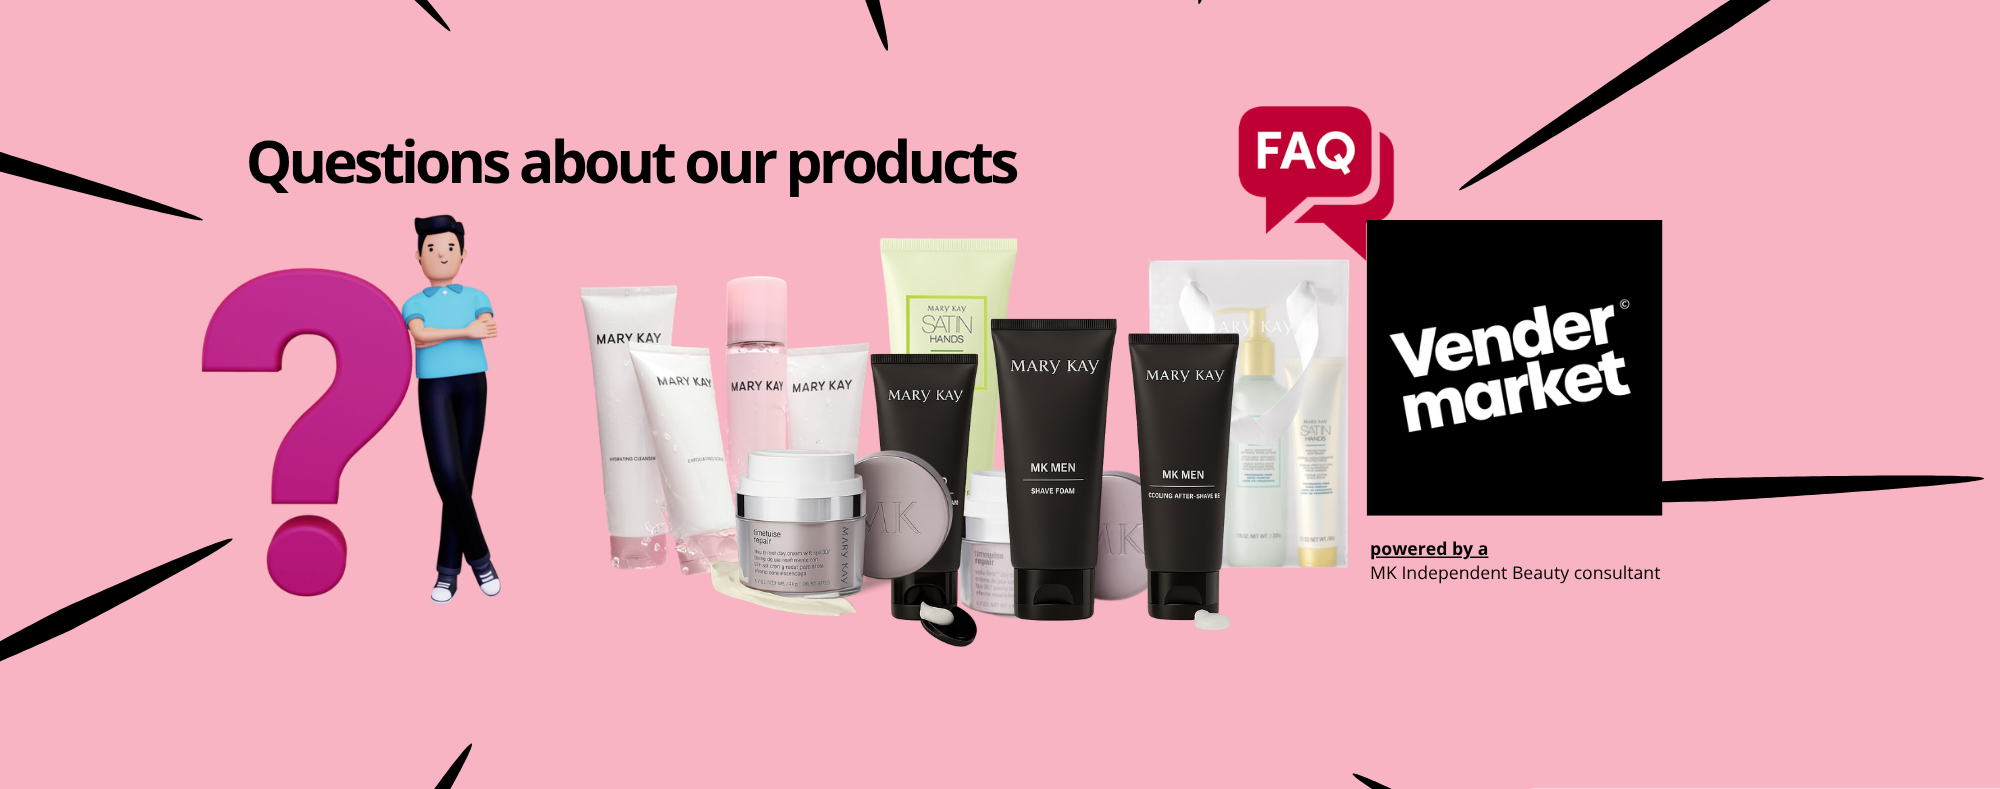
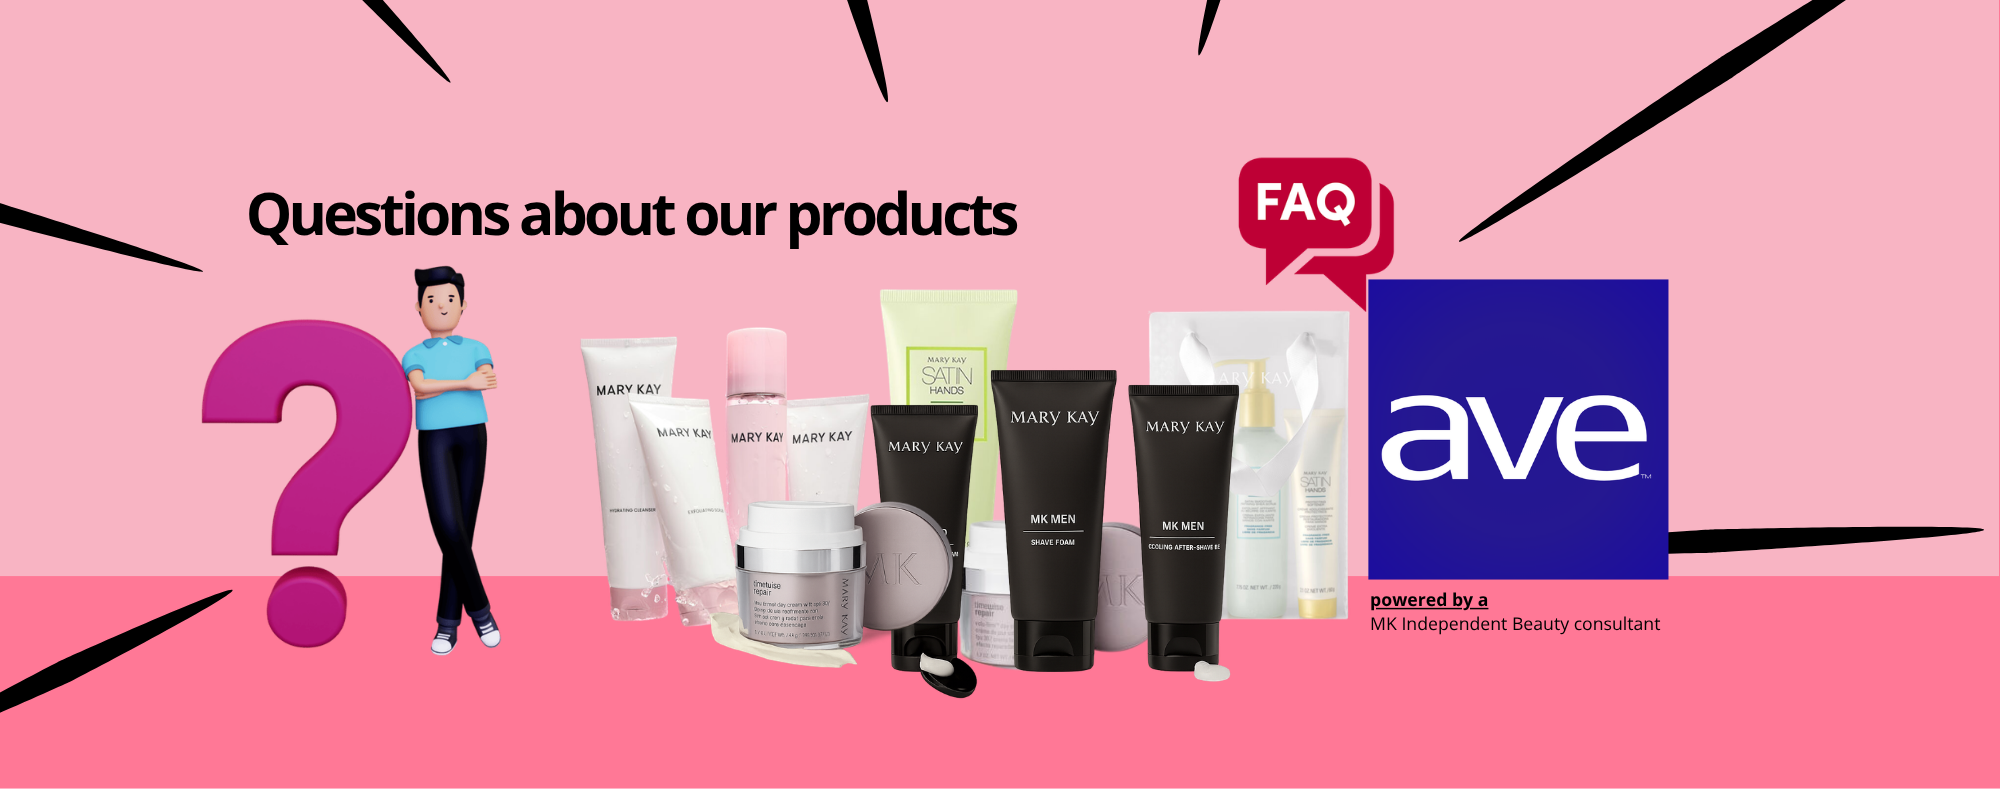
Fix FAQ images and update site content

diff --git a/src/app/faq/page.jsx b/src/app/faq/page.jsx
@@ -25,7 +25,7 @@ export default function FAQPage() {
       {/* HERO */}
       <section className="pbFaqHero">
         <div className="pbContainer pbFaqHeroInner">
-          <h1>Questions about Vendermarket.com</h1>
+          <h1>Questions about avecosmetico.com</h1>
           <p>
             Find answers about product selection, ordering, consultants,
             affiliate links, shipping, returns and skincare routines.
